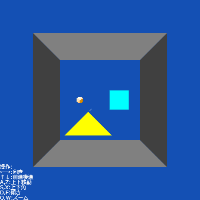
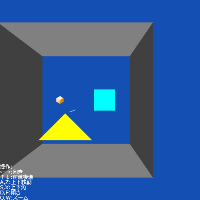
TTDのサンプル修正

diff --git a/Samples/3D_TTD_lib_1/js/concat.js b/Samples/3D_TTD_lib_1/js/concat.js
@@ -147,13 +147,20 @@ Tonyu.klass.define({
         
         _this.onStart();
         _this.onBeforeMove();
-        Tonyu.globals.$Boot.on("beforeMove",(function anonymous_437() {
+        _this.evtBeforeMove = Tonyu.globals.$Boot.on("beforeMove",(function anonymous_527() {
           
           _this.onBeforeMove();
         }));
-        Tonyu.globals.$Boot.on("afterMove",(function anonymous_481() {
+        
+        _this.evtAfterMove = Tonyu.globals.$Boot.on("afterMove",(function anonymous_590() {
           
           _this.onAfterMove();
+        }));
+        
+        _this.on("die",(function anonymous_621() {
+          
+          _this.evtBeforeMove.remove();
+          _this.evtAfterMove.remove();
         }));
       },
       fiber$main :function* _trc_Main_f_main(_thread) {
@@ -161,13 +168,20 @@ Tonyu.klass.define({
         
         (yield* _this.fiber$onStart(_thread));
         (yield* _this.fiber$onBeforeMove(_thread));
-        Tonyu.globals.$Boot.on("beforeMove",(function anonymous_437() {
+        _this.evtBeforeMove = Tonyu.globals.$Boot.on("beforeMove",(function anonymous_527() {
           
           _this.onBeforeMove();
         }));
-        Tonyu.globals.$Boot.on("afterMove",(function anonymous_481() {
+        
+        _this.evtAfterMove = Tonyu.globals.$Boot.on("afterMove",(function anonymous_590() {
           
           _this.onAfterMove();
+        }));
+        
+        _this.on("die",(function anonymous_621() {
+          
+          _this.evtBeforeMove.remove();
+          _this.evtAfterMove.remove();
         }));
         
       },
@@ -213,7 +227,7 @@ Tonyu.klass.define({
       __dummy: false
     };
   },
-  decls: {"methods":{"main":{"nowait":false,"isMain":true,"vtype":{"params":[],"returnValue":null}},"onStart":{"nowait":false,"isMain":false,"vtype":{"params":[],"returnValue":null}},"onBeforeMove":{"nowait":false,"isMain":false,"vtype":{"params":[],"returnValue":null}},"onAfterMove":{"nowait":false,"isMain":false,"vtype":{"params":[],"returnValue":null}}},"fields":{}}
+  decls: {"methods":{"main":{"nowait":false,"isMain":true,"vtype":{"params":[],"returnValue":null}},"onStart":{"nowait":false,"isMain":false,"vtype":{"params":[],"returnValue":null}},"onBeforeMove":{"nowait":false,"isMain":false,"vtype":{"params":[],"returnValue":null}},"onAfterMove":{"nowait":false,"isMain":false,"vtype":{"params":[],"returnValue":null}}},"fields":{"evtBeforeMove":{},"evtAfterMove":{}}}
 });
 Tonyu.klass.define({
   fullName: 'user.MyChar',

diff --git a/Samples/3D_TTD_lib_2/js/concat.js b/Samples/3D_TTD_lib_2/js/concat.js
@@ -147,13 +147,20 @@ Tonyu.klass.define({
         
         _this.onStart();
         _this.onBeforeMove();
-        Tonyu.globals.$Boot.on("beforeMove",(function anonymous_463() {
+        _this.evtBeforeMove = Tonyu.globals.$Boot.on("beforeMove",(function anonymous_483() {
           
           _this.onBeforeMove();
         }));
-        Tonyu.globals.$Boot.on("afterMove",(function anonymous_507() {
+        
+        _this.evtAfterMove = Tonyu.globals.$Boot.on("afterMove",(function anonymous_546() {
           
           _this.onAfterMove();
+        }));
+        
+        _this.on("die",(function anonymous_577() {
+          
+          _this.evtBeforeMove.remove();
+          _this.evtAfterMove.remove();
         }));
       },
       fiber$main :function* _trc_Main_f_main(_thread) {
@@ -161,13 +168,20 @@ Tonyu.klass.define({
         
         (yield* _this.fiber$onStart(_thread));
         (yield* _this.fiber$onBeforeMove(_thread));
-        Tonyu.globals.$Boot.on("beforeMove",(function anonymous_463() {
+        _this.evtBeforeMove = Tonyu.globals.$Boot.on("beforeMove",(function anonymous_483() {
           
           _this.onBeforeMove();
         }));
-        Tonyu.globals.$Boot.on("afterMove",(function anonymous_507() {
+        
+        _this.evtAfterMove = Tonyu.globals.$Boot.on("afterMove",(function anonymous_546() {
           
           _this.onAfterMove();
+        }));
+        
+        _this.on("die",(function anonymous_577() {
+          
+          _this.evtBeforeMove.remove();
+          _this.evtAfterMove.remove();
         }));
         
       },
@@ -221,7 +235,7 @@ Tonyu.klass.define({
       __dummy: false
     };
   },
-  decls: {"methods":{"main":{"nowait":false,"isMain":true,"vtype":{"params":[],"returnValue":null}},"onStart":{"nowait":false,"isMain":false,"vtype":{"params":[],"returnValue":null}},"onBeforeMove":{"nowait":false,"isMain":false,"vtype":{"params":[],"returnValue":null}},"onAfterMove":{"nowait":false,"isMain":false,"vtype":{"params":[],"returnValue":null}}},"fields":{}}
+  decls: {"methods":{"main":{"nowait":false,"isMain":true,"vtype":{"params":[],"returnValue":null}},"onStart":{"nowait":false,"isMain":false,"vtype":{"params":[],"returnValue":null}},"onBeforeMove":{"nowait":false,"isMain":false,"vtype":{"params":[],"returnValue":null}},"onAfterMove":{"nowait":false,"isMain":false,"vtype":{"params":[],"returnValue":null}}},"fields":{"evtBeforeMove":{},"evtAfterMove":{}}}
 });
 Tonyu.klass.define({
   fullName: 'user.MyChar',
